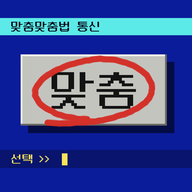
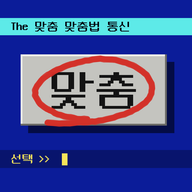
PC통신판: 이름을 The 맞춤 맞춤법 통신으로(화면·아이콘·미리보기 그림까지)
- 홈 화면 앱 이름, 매니페스트 이름, 탭 제목
- 게임 화면 안: 맨 위 줄, 주 메뉴 머리, 접속 글, 여는 화면 간판(게임 -> 통신), 앱으로 열 때 대기 화면
- 공유 글 첫 줄, 결과 그림 제목, 친구에게 알리기 글, 링크 미리보기 이름
- 아이콘 맨 위 띠 글자, 링크 미리보기 그림(og.png) 큰 제목. 미리보기 그림 주소에 ?v=1114

Claude-Session: https://claude.ai/code/session_01M83PG5okASHJMcAqT1ppPE

Changed region(s): [[0.3125, 0.0938, 0.5312, 0.1875], [0.0312, 0.0938, 0.1875, 0.1875], [0.5625, 0.0938, 0.6875, 0.1875]]

diff --git a/machumlaw_pc/index.html b/machumlaw_pc/index.html
@@ -5,32 +5,32 @@
 <meta name="viewport" content="width=device-width,initial-scale=1,viewport-fit=cover">
 <meta name="description" content="하루 다섯 문제, 틀린 말은 1·3·7·21일 뒤에 다시. 파란 화면 PC통신으로 푸는 가입 없는 맞춤법 게임.">
 <meta property="og:type" content="website">
-<meta property="og:title" content="맞춤맞춤법 통신 · The 맞춤 맞춤법 게임 PC통신판">
+<meta property="og:title" content="The 맞춤 맞춤법 통신 · The 맞춤 맞춤법 게임 PC통신판">
 <meta property="og:description" content="하루 다섯 문제, 틀린 말은 1·3·7·21일 뒤에 다시. 파란 화면 PC통신으로 푸는 가입 없는 맞춤법 게임.">
 <meta property="og:url" content="https://yangjinhyeok22.github.io/machumlaw_pc/">
 <link rel="canonical" href="https://yangjinhyeok22.github.io/machumlaw_pc/">
-<meta property="og:image" content="https://yangjinhyeok22.github.io/machumlaw_pc/og.png">
+<meta property="og:image" content="https://yangjinhyeok22.github.io/machumlaw_pc/og.png?v=1114">
 <meta property="og:image:width" content="1200">
 <meta property="og:image:height" content="630">
 <meta property="og:image:alt" content="파란 PC통신 화면에서 맞춤법 문제를 푸는 모습">
-<meta property="og:site_name" content="맞춤맞춤법 통신">
+<meta property="og:site_name" content="The 맞춤 맞춤법 통신">
 <meta name="twitter:card" content="summary_large_image">
-<meta name="twitter:title" content="맞춤맞춤법 통신">
+<meta name="twitter:title" content="The 맞춤 맞춤법 통신">
 <meta name="twitter:description" content="하루 다섯 문제, 틀린 말은 1·3·7·21일 뒤에 다시. 파란 화면 PC통신으로 푸는 가입 없는 맞춤법 게임.">
-<meta name="twitter:image" content="https://yangjinhyeok22.github.io/machumlaw_pc/og.png">
-<script type="application/ld+json">{"@context": "https://schema.org", "@type": "WebApplication", "name": "맞춤맞춤법 통신", "url": "https://yangjinhyeok22.github.io/machumlaw_pc/", "description": "하루 다섯 문제, 틀린 말은 1·3·7·21일 뒤에 다시. 파란 화면 PC통신으로 푸는 가입 없는 맞춤법 게임.", "inLanguage": "ko", "applicationCategory": "GameApplication", "operatingSystem": "Web", "isAccessibleForFree": true, "offers": {"@type": "Offer", "price": "0", "priceCurrency": "KRW"}, "author": {"@type": "Person", "name": "양진혁", "url": "https://www.threads.com/@yangjinhyuk.yt"}}</script>
+<meta name="twitter:image" content="https://yangjinhyeok22.github.io/machumlaw_pc/og.png?v=1114">
+<script type="application/ld+json">{"@context": "https://schema.org", "@type": "WebApplication", "name": "The 맞춤 맞춤법 통신", "url": "https://yangjinhyeok22.github.io/machumlaw_pc/", "description": "하루 다섯 문제, 틀린 말은 1·3·7·21일 뒤에 다시. 파란 화면 PC통신으로 푸는 가입 없는 맞춤법 게임.", "inLanguage": "ko", "applicationCategory": "GameApplication", "operatingSystem": "Web", "isAccessibleForFree": true, "offers": {"@type": "Offer", "price": "0", "priceCurrency": "KRW"}, "author": {"@type": "Person", "name": "양진혁", "url": "https://www.threads.com/@yangjinhyuk.yt"}}</script>
 <meta name="theme-color" content="#0b1d9e">
 <link rel="manifest" href="manifest.webmanifest">
 <link rel="icon" type="image/png" sizes="192x192" href="icon-192.png">
 <link rel="apple-touch-icon" href="apple-touch-icon.png">
 <meta name="apple-mobile-web-app-capable" content="yes">
 <meta name="mobile-web-app-capable" content="yes">
-<meta name="apple-mobile-web-app-title" content="The 맞춤법 통신">
+<meta name="apple-mobile-web-app-title" content="The 맞춤 맞춤법 통신">
 <meta name="apple-mobile-web-app-status-bar-style" content="black-translucent">
 <style>:root{padding:env(safe-area-inset-top,0px) 0 env(safe-area-inset-bottom,0px)}body{margin:0}[hidden]{display:none!important}</style>
 </head>
 <body>
-<title>맞춤맞춤법 통신</title>
+<title>The 맞춤 맞춤법 통신</title>
 <meta name="claude:viewport-fit-sides" content="cover">
 <!-- 글꼴: Neo둥근모(NeoDunggeunmo). 원본은 김중태 님이 공개한 둥근모꼴, 변환과 추가 글자는 Dalgona. SIL Open Font License 1.1 (https://scripts.sil.org/OFL). 파일 안에 그대로 넣었다. -->
 <style>
@@ -192,8 +192,8 @@ body{background:radial-gradient(110% 80% at 50% 30%,#10163d,var(--room) 70%);col
   <div id="mon">
     <div id="holder">
       <div id="scr">
-        <div class="bar"><span id="barL">맞춤맞춤법 통신</span><span id="barR"></span></div>
-        <div id="main" aria-live="polite"><div class="seo"><h1>맞춤맞춤법 통신</h1><p>파란 화면 PC통신으로 푸는 하루 다섯 문제 맞춤법 게임. The 맞춤 맞춤법 게임의 PC통신판입니다.</p><ul><li>헷갈리는 말을 치고 Enter를 누르면 바로 판정합니다(되요/돼요, 몇일/며칠).</li><li>틀린 말은 1·3·7·21일 뒤에 다시 나옵니다.</li><li>결과는 ○× 한 줄과 결과 그림으로 자랑합니다. 가입 없음.</li></ul><p><a href="https://www.threads.com/@yangjinhyuk.yt" target="_blank" rel="noopener">의견 보내기(스레드)</a></p></div></div>
+        <div class="bar"><span id="barL">The 맞춤 맞춤법 통신</span><span id="barR"></span></div>
+        <div id="main" aria-live="polite"><div class="seo"><h1>The 맞춤 맞춤법 통신</h1><p>파란 화면 PC통신으로 푸는 하루 다섯 문제 맞춤법 게임. The 맞춤 맞춤법 게임의 PC통신판입니다.</p><ul><li>헷갈리는 말을 치고 Enter를 누르면 바로 판정합니다(되요/돼요, 몇일/며칠).</li><li>틀린 말은 1·3·7·21일 뒤에 다시 나옵니다.</li><li>결과는 ○× 한 줄과 결과 그림으로 자랑합니다. 가입 없음.</li></ul><p><a href="https://www.threads.com/@yangjinhyuk.yt" target="_blank" rel="noopener">의견 보내기(스레드)</a></p></div></div>
         <div class="hint" id="hint"></div>
         <div class="cmd"><label for="cmd" id="cmdL">선택 &gt;&gt;</label><input id="cmd" type="text" autocomplete="off" autocapitalize="off" autocorrect="off" spellcheck="false" enterkeyhint="go" maxlength="40"></div>
         <div class="fn" id="fn">
@@ -846,7 +846,7 @@ if (typeof module !== 'undefined') module.exports = { BANK: BANK, HOLD: HOLD };
    엔진 — 화면과 상관없는 계산. node 로 테스트한다.
    =================================================================== */
 var CONFIG = {
-  name: 'The 맞춤 맞춤법 게임',
+  name: 'The 맞춤 맞춤법 통신',
   tag: '맞춤맞춤법게임',          // 공유 문구 해시태그(스레드는 주제 태그)
   appUrl: 'https://yangjinhyeok22.github.io/machumlaw_pc/',                     // 공개 주소. 넣으면 공유 문구 맨 아래에 붙는다.
   dayOne: '2026-11-11',           // 제1회 날짜(한국 시간)
@@ -1402,7 +1402,7 @@ var Card = (function () {
   function render() {
     clearInk(); fx.innerHTML = '';
     var v = VIEWS[V.name];
-    $('barL').textContent = v.title ? v.title() : '맞춤맞춤법 통신';
+    $('barL').textContent = v.title ? v.title() : 'The 맞춤 맞춤법 통신';
     $('barR').innerHTML = v.right ? v.right() : dayLabel() + ' 제' + tNo() + '회';
     main.className = REDUCE ? '' : 'in';
     main.innerHTML = v.body(); main.scrollTop = 0;
@@ -1420,7 +1420,7 @@ var Card = (function () {
     body: function () {
       var t = tIdx(), no = tNo(), sp = spiceOf(no), done = S.days[tKey()], due = dueList(S, t).length, c = boxCounts(S);
       var first = !done ? ['오늘의 훈련', '다섯 문제'] : due ? ['오답 복습', due + '문제'] : ['오늘 결과', done.res.filter(Boolean).length + '/5'];
-      return dlg('<div style="display:flex;justify-content:space-between;align-items:baseline;gap:8px"><span><span class="rd" id="mlogo">맞춤</span> 맞춤법 게임</span><span class="dm">PC통신판</span></div>' +
+      return dlg('<div style="display:flex;justify-content:space-between;align-items:baseline;gap:8px"><span>The <span class="rd" id="mlogo">맞춤</span> 맞춤법 통신</span><span class="dm">PC통신판</span></div>' +
           '<div class="dm" style="margin-top:4px;display:flex;flex-wrap:wrap;column-gap:10px"><span>오늘 맵기 ' + dots(sp) + ' ' + SPICE[sp] + '</span><span>연속 ' + streakOf(S, t) + '일 · ' + rankOf(S.xp).name + '</span></div>') +
         (due && done ? L('<span class="warn">[알림] 복습할 말 ' + due + '개가 기다립니다</span>') : '') +
         box('주 메뉴',
@@ -1589,15 +1589,15 @@ var Card = (function () {
       d = { kicker: '제' + rec.no + '회 · ' + dd.m + '월 ' + dd.d + '일 · 맵기 ' + '●'.repeat(rec.sp) + '○'.repeat(3 - rec.sp), big: sc + '/5', small: (rec.ms / 1000).toFixed(1) + '초 · 연속 ' + streakOf(S, tIdx()) + '일',
         marks: rec.res.map(function (r) { return r ? '○' : '×'; }).join(' '), lines: shareText(rec, 1).split('\n').filter(function (l) { return /\(.\) \//.test(l); }), stamp: STP[stampOf(sc)] };
     }
-    cardP = Card.drawCard(Object.assign({ title: '맞춤맞춤법 통신', bg: '#0b1d9e', fg: '#ffffff', dim: '#9fb0ff', accent: '#ffea5c', band: '#5ff0ee', bandFg: '#000c3a', foot: '#081570', footFg: '#ffea5c', url: HOME_URL }, d));
+    cardP = Card.drawCard(Object.assign({ title: 'The 맞춤 맞춤법 통신', bg: '#0b1d9e', fg: '#ffffff', dim: '#9fb0ff', accent: '#ffea5c', band: '#5ff0ee', bandFg: '#000c3a', foot: '#081570', footFg: '#ffea5c', url: HOME_URL }, d));
   }
   function shareSheetNow() {
     var text = shareNow(); if (!text) return;
-    Card.shareSheet({ title: '맞춤맞춤법 통신', text: text, url: HOME_URL, card: cardP ? function () { return cardP; } : null, fileName: 'matchum-pc-' + tKey() }).then(function (ok) { if (!ok) copyText(text); });
+    Card.shareSheet({ title: 'The 맞춤 맞춤법 통신', text: text, url: HOME_URL, card: cardP ? function () { return cardP; } : null, fileName: 'matchum-pc-' + tKey() }).then(function (ok) { if (!ok) copyText(text); });
   }
   function tellFriend() {
-    var text = '맞춤맞춤법 통신 · 파란 화면 PC통신으로 푸는 하루 다섯 문제 맞춤법 게임. 틀린 말은 1·3·7·21일 뒤에 다시. 가입 없음.';
-    Card.shareSheet({ title: '맞춤맞춤법 통신', text: text, url: HOME_URL }).then(function (ok) { if (!ok) copyText(text + '\n' + HOME_URL); });
+    var text = 'The 맞춤 맞춤법 통신 · 파란 화면 PC통신으로 푸는 하루 다섯 문제 맞춤법 게임. 틀린 말은 1·3·7·21일 뒤에 다시. 가입 없음.';
+    Card.shareSheet({ title: 'The 맞춤 맞춤법 통신', text: text, url: HOME_URL }).then(function (ok) { if (!ok) copyText(text + '\n' + HOME_URL); });
   }
   VIEWS.result = {
     title: function () { var k = V.arg.kind; return k === 'daily' ? '제' + tNo() + '회 결과' : k === 'endless' ? '끝까지 도전 결과' : '복습 결과'; },
@@ -1908,9 +1908,9 @@ var Card = (function () {
   function boot() {
     var el = document.createElement('div'); el.id = 'boot';
     el.innerHTML = '<div class="l" id="b1"></div><div class="l" id="b2"></div><div class="l" id="b3"></div>' +
-      '<div class="dlg ban" id="ban" style="visibility:hidden"><span class="the">The</span><div class="t1"><span id="blogo">맞춤</span> 맞춤법</div><div class="t2">게임</div><div class="sub">PC통신판 ' + CONFIG.version + '</div></div><div class="l" id="b4" style="margin-top:14px"></div>';
+      '<div class="dlg ban" id="ban" style="visibility:hidden"><span class="the">The</span><div class="t1"><span id="blogo">맞춤</span> 맞춤법</div><div class="t2">통신</div><div class="sub">PC통신판 ' + CONFIG.version + '</div></div><div class="l" id="b4" style="margin-top:14px"></div>';
     scr.appendChild(el);
-    var me = BOOT = { el: el, timers: [] }, lines = [['b1', '맞춤맞춤법 통신망에 접속합니다'], ['b2', '연결되었습니다. 어서 오십시오.'], ['b3', '오늘은 ' + dayLabel() + ', 제' + tNo() + '회입니다.']];
+    var me = BOOT = { el: el, timers: [] }, lines = [['b1', 'The 맞춤 맞춤법 통신망에 접속합니다'], ['b2', '연결되었습니다. 어서 오십시오.'], ['b3', '오늘은 ' + dayLabel() + ', 제' + tNo() + '회입니다.']];
     var t = 0, speed = REDUCE ? 0 : 12;
     lines.forEach(function (ln) {
       Array.from(ln[1]).forEach(function (ch, i) {
@@ -1954,7 +1954,7 @@ var Card = (function () {
   }
   function bootGate() {
     var el = document.createElement('div'); el.id = 'boot';
-    el.innerHTML = '<div class="l">맞춤맞춤법 통신 ' + CONFIG.version + '</div><div class="l" style="margin-top:14px"><span class="ye">' + (TOUCH ? '화면을 누르면' : '아무 키나 누르면') + ' 접속합니다</span> <span class="cur"></span></div>';
+    el.innerHTML = '<div class="l">The 맞춤 맞춤법 통신 ' + CONFIG.version + '</div><div class="l" style="margin-top:14px"><span class="ye">' + (TOUCH ? '화면을 누르면' : '아무 키나 누르면') + ' 접속합니다</span> <span class="cur"></span></div>';
     scr.appendChild(el);
     function on(ev) {
       if (ev.type === 'keydown' && (ev.metaKey || ev.ctrlKey || ev.altKey)) return;

diff --git a/machumlaw_pc/sw.js b/machumlaw_pc/sw.js
@@ -1,7 +1,7 @@
-// 맞춤맞춤법 통신(PC통신판)의 서비스 워커. 인터넷이 없어도 열리게 한다.
+// The 맞춤 맞춤법 통신(PC통신판)의 서비스 워커. 인터넷이 없어도 열리게 한다.
 // - 페이지는 열 때마다 서버에 새 판이 있는지 묻고(no-cache), 인터넷이 안 될 때만 저장해 둔 판을 쓴다.
 // - 이 주소(yangjinhyeok22.github.io)는 다른 앱과 함께 쓴다. 그래서 이름이 matchumpc- 로 시작하는 저장분만 다루고 남의 것은 건드리지 않는다.
-var PREFIX = 'matchumpc-', CACHE = PREFIX + 'dc811428';
+var PREFIX = 'matchumpc-', CACHE = PREFIX + '2ae80ce4';
 var HOME = new URL('./', self.location).pathname;           // 예: /machumlaw/
 var FILES = ['./index.html', './manifest.webmanifest', './icon-192.png', './icon-512.png', './apple-touch-icon.png'];
 function mine(req) { return caches.open(CACHE).then(function (c) { return c.match(req); }); }
